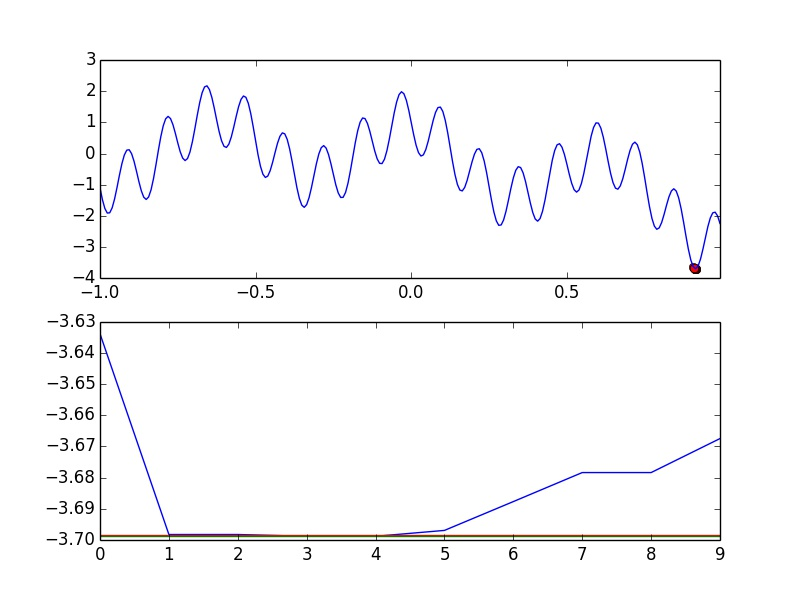
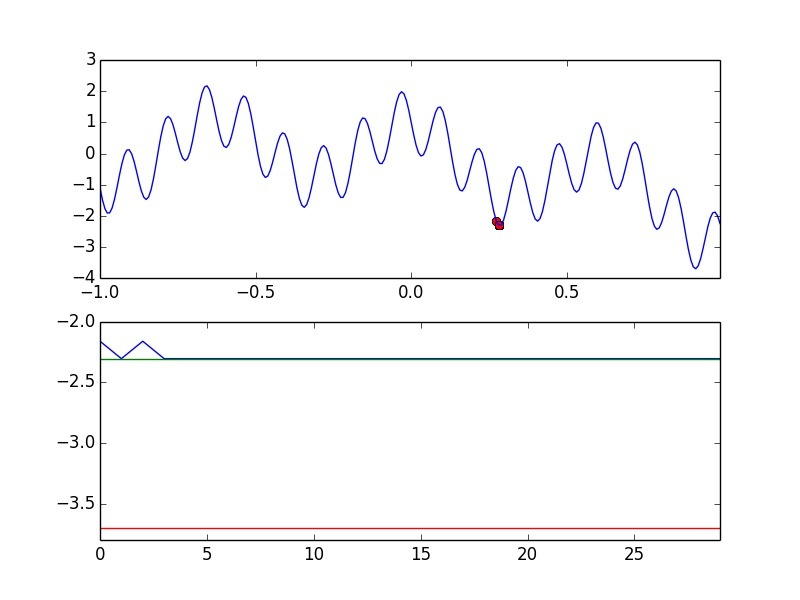
turniej zrobiony

diff --git a/static/js/main.js b/static/js/main.js
@@ -2,7 +2,7 @@ function onReady() {
     var sel_method = $('#sel_method');
     sel_method.change(function() {
         var sel_method_param = $('.sel_method_param');
-        if (sel_method.val() == "turnee") {
+        if (sel_method.val() == "1") {
             sel_method_param.show();
         } else {
             sel_method_param.hide();

diff --git a/genetic/func.py b/genetic/func.py
@@ -26,12 +26,13 @@ class Genetic:
 
 
         try:
-            self.cross_func = crossing.table[int(data['cross_fun'])]
+            self.cross_func = crossing.table[int(data['cross_method'])]
         except:
             self.cross_func = crossing.average
 
+        select_table=[selecting.rulette, lambda x: selecting.turnee(x, self.tour_size)]
         try:
-            self.select_func = selecting.rulette
+            self.select_func = select_table[int(data['sel_method'])]
         except:
             self.select_func = selecting.rulette
 
@@ -42,13 +43,13 @@ class Genetic:
         mx, my = extract_min(m)
 
         delta = (self.maxx-self.minx)/self.range
-        x = arange(self.minx, self.maxx, delta)
-        y = self.f(x)
+        x = range(self.range)
+        y = [self.fitness(i) for i in x]
 
         plt.subplot(211)
         plt.xlim([self.minx, self.maxx-delta])
         plt.plot(mx, my, 'ro')
-        plt.plot(x, y)
+        plt.plot([self.getx(i) for i in x], y)
 
         plt.subplot(212)
         lims = [0, self.gen_count-1]
@@ -65,7 +66,7 @@ class Genetic:
                 pass
 
     def getx(self, x):
-        return self.minx + x*self.width/self.range
+        return self.minx + self.width/self.range*x
 
     def fitness(self, x):
         return self.f(self.getx(x))
@@ -76,7 +77,7 @@ class Genetic:
 
         for i in range(self.gen_count):
             best, rated = self.rate(population)
-            selected = self.select(rated)
+            selected = self.select_func(population)
             population = self.cross(selected)
 
             yield best
@@ -91,9 +92,6 @@ class Genetic:
             p['y'] = self.fitness(p['x'])
 
         return selecting.minp(population), population
-
-    def select(self, population):
-        return [(self.select_func(population), self.select_func(population)) for _ in population]
 
     def cross(self, population):
         return [self.cross_func(p) for p in population]

diff --git a/genetic/selecting.py b/genetic/selecting.py
@@ -6,11 +6,26 @@ def minp(population):
 def maxp(population):
     return max(population, key=lambda x: x['y'])
 
-def rulette(population):
-    best = minp(population)
-    r = random.uniform(best['y'], maxp(population)['y'])
+def _rulette(best, worst, population):
+    r = random.uniform(best['y'], worst['y'])
     ruletted = filter(lambda x: x['y'] < r, population)
 
     return best if not ruletted else random.choice(ruletted)
 
-table=[]
+def rulette(population):
+    best = minp(population)
+    worst = maxp(population)
+
+    return [(_rulette(best, worst, population), _rulette(best, worst, population)) for p in population]
+
+def group(x, n):
+    for i in range(0, len(x), n):
+        yield x[i:i+n]
+
+def turnee(population, tour_size):
+    groups = list(group(population, tour_size))
+    leaders = [minp(g) for g in groups]
+
+    return [(random.choice(leaders), random.choice(leaders)) for p in population]
+
+

diff --git a/genetic/crossing.py b/genetic/crossing.py
@@ -2,7 +2,7 @@ from random import randint
 
 def average(population):
     man, woman = population
-    return {'x':(man['x'] + woman['x'])/2.0}
+    return {'x':(man['x'] + woman['x'])/2}
 
 def one_point(population):
     return population
